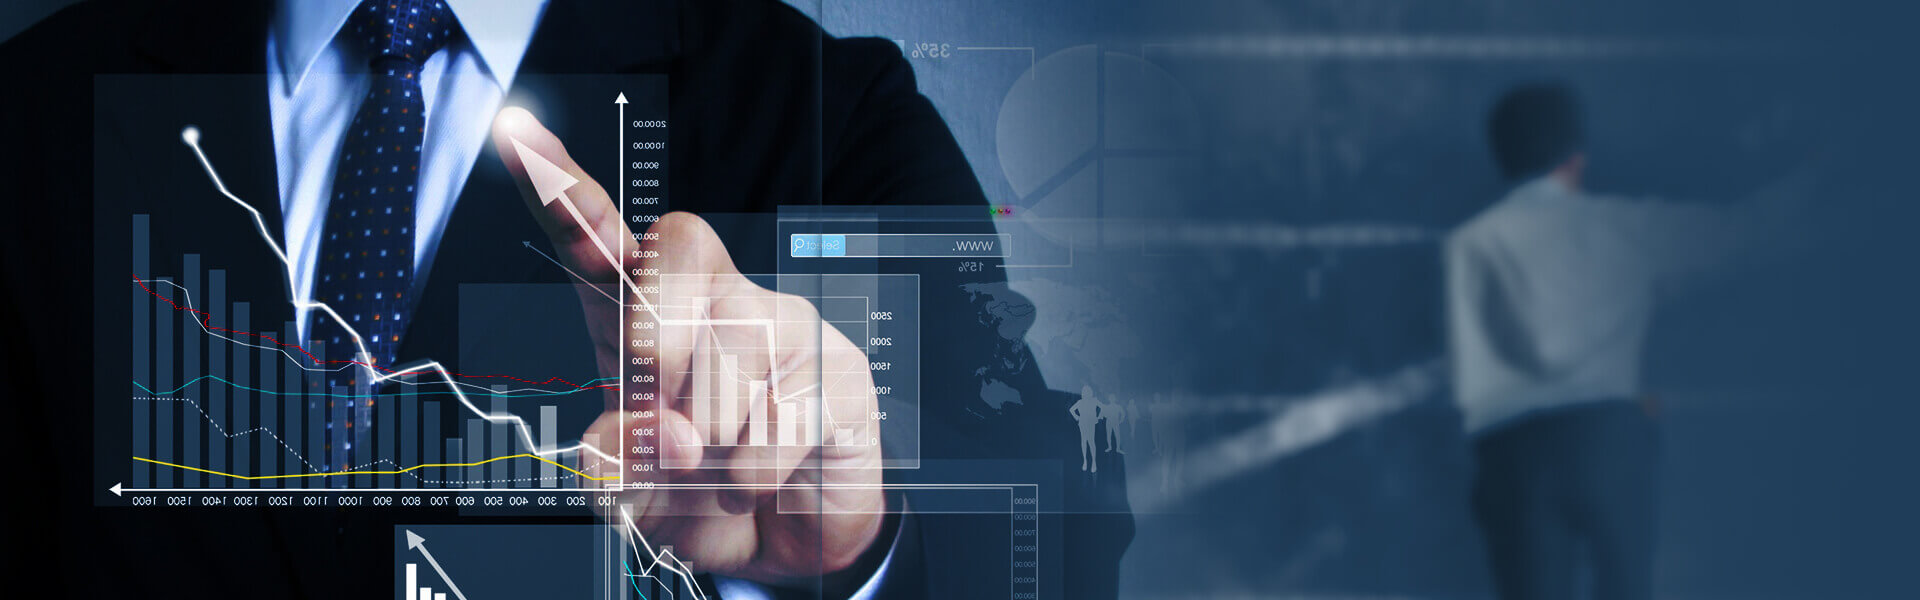
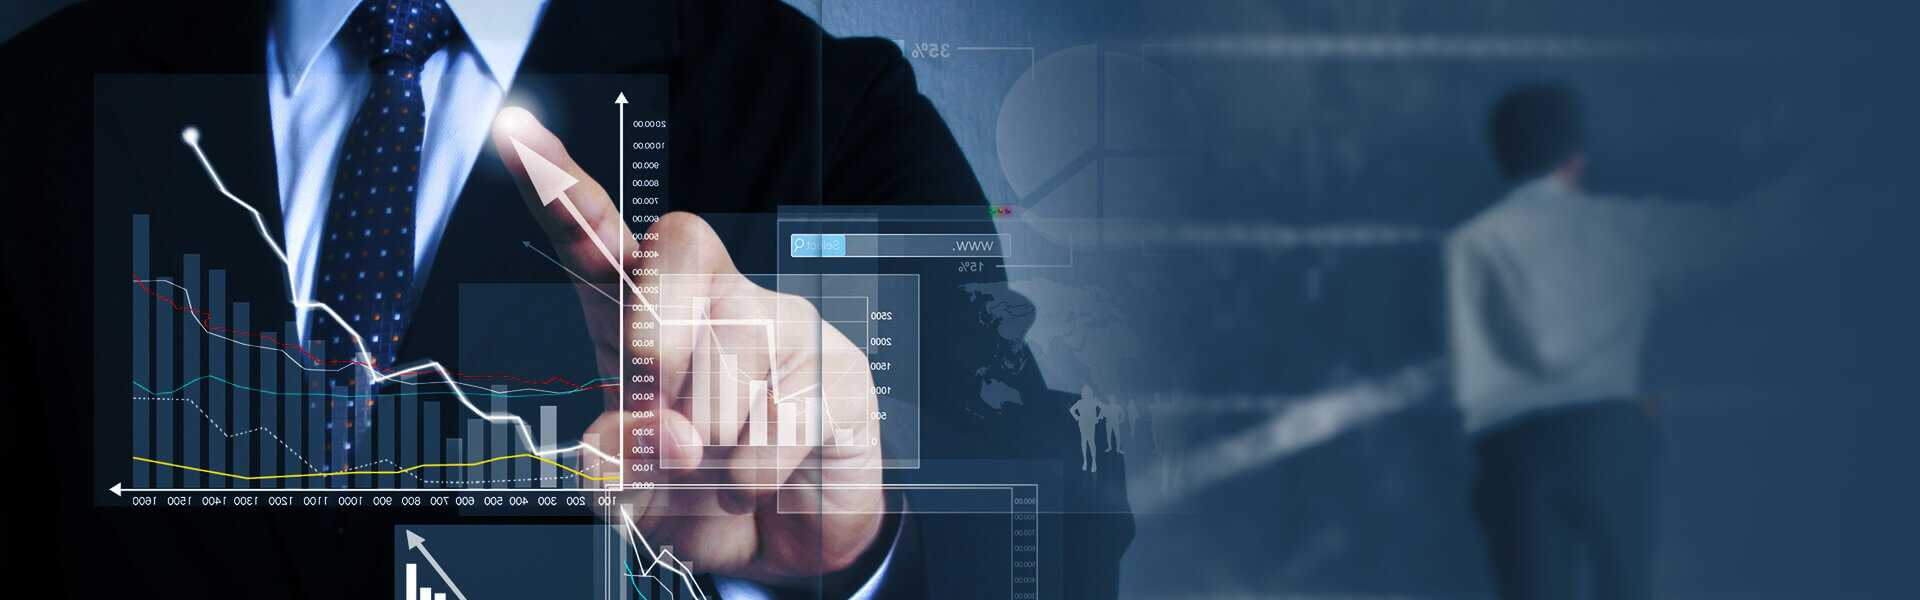
corrections / optimisations / compressions

diff --git a/styles.css b/styles.css
@@ -1,6 +1,6 @@
 /*/ GENERAL /*/
 h2{font-size: 1.6em;letter-spacing: 4px;text-transform: uppercase}
-h1 {margin-top: 15%;text-transform: uppercase;font-weight: 300;letter-spacing: 5px;width:90%}
+h1 {margin: 20% auto 0 auto;text-transform: uppercase;font-weight: 300;letter-spacing: 5px;width:90%}
 button{display: block;margin: 15px auto;background-color: white;border: 1px solid #84B1D8;padding: 5px;color: #1F3D58;}
 header button {border:0px; color:white; background-color:#4f9ee5; position:absolute;  right: 2%;top: 45%;width:auto;}
 button:hover {background-color: #1F3D58;color: white;border:1px solid white;-webkit-transition: background-color .2s ease;
@@ -63,7 +63,7 @@ background-position: 100% 100%;  width: 100%;
 
 /*/ CONTENT /*/
 #bandeau,#bandeau4 {width:100%;height:100%; overflow: hidden;padding-top:4.5%;}
-#bandeau4 {background-image: url(img/contact.png);background-repeat: no-repeat;background-size: cover;background-attachment: fixed;padding-top: 75px;}
+#bandeau4 {background-image: url(img/contact.jpg);background-repeat: no-repeat;background-size: cover;background-attachment: fixed;padding-top: 75px;}
 .frise {width:98%;height:33.4%;filter: brightness(50%);-webkit-filter: brightness(50%); -moz-filter: brightness(50%); -o-filter: brightness(50%); -ms-filter: brightness(50%); -webkit-transition: all 0.3s ease-in-out; -moz-transition: all 0.3s ease-in-out; -o-transition: all 0.3s ease-in-out; -ms-transition: all 0.3s ease-in-out; transition: all 0.3s ease-in-out; margin: 0 auto}
 .frise:hover {filter: brightness(100%);-webkit-filter: brightness(100%);-moz-filter: brightness(100%);-o-filter: brightness(100%);-ms-filter: brightness(100%);-webkit-transform: scale(1.005);-moz-transform: scale(1.005);-o-transform: scale(1.005);transform: scale(1.005);}
 #concept {background-image: url(img/01.jpg);  background-repeat: no-repeat; background-position: 0% 35%;background-size: cover}
@@ -99,11 +99,11 @@ body>.society {text-align:center;margin: 7% auto 3% auto;  display: block;}
 #bandeau3 p {  color: white;font-weight: 300;font-size: 90%;letter-spacing: 1px;  width: 90%;margin: 5% auto}
 #bloc_avantage>p,#bandeau3>p {color:black;font-size: 1.3em;margin: 3% auto;width:90%}
 #constat .div p,#bloc_avantage .div p {width:60%; margin: 1% auto}
-#first_constat {background-image:url(img/ue.png)}
-#second_constat {background-image:url(img/solution.png)}
+#first_constat {background-image:url(img/ue.jpg)}
+#second_constat {background-image:url(img/solution.jpg)}
 #second_constat .vertical_align {float:left;width:60%;margin-left:5%}
 #second_constat .constat img {float:none;display:inline-block}
-#third_constat {background-image:url(img/avantage.png)}
+#third_constat {background-image:url(img/avantage.jpg)}
 #second_constat, #first_constat,#third_constat {background-size: cover;background-repeat: no-repeat;}
 /*/ AVANTAGES /*/
 #bloc_avantage h2{font-weight: 300;font-size:1.3em;width:60%;text-align: center}

diff --git a/concept.html b/concept.html
@@ -15,17 +15,8 @@
 <link rel="stylesheet" href="mobile.css">
 <link rel="stylesheet" href="tablette.css">
 <link href='http://fonts.googleapis.com/css?family=Lato:100,300,400' rel='stylesheet' type='text/css'>
-<script src="https://ajax.googleapis.com/ajax/libs/jquery/1.10.2/jquery.min.js" async></script>
-<script src="http://code.jquery.com/jquery-latest.min.js" type="text/javascript" async></script>
-<script src="script.js" async></script>
-<noscript>Javascript non pris en charge</noscript>
 <title>Concept Be CLM, la conformité au coeur du processus</title>
 <link rel="icon" type="image/png" href="img/favicon.png" />
-    <IfModule mod_headers.c>
-  <FilesMatch "\.(js|css|xml|gz)$">
-    Header append Vary: Accept-Encoding
-  </FilesMatch>
-</IfModule>
 </head>
 <body id="monDiv">
 <header>
@@ -114,28 +105,9 @@
             </ul>
         <span>© 2015 | Designed by 4SH</span>
     </footer>
-<script>
-    function adpaterALaTailleDeLaFenetre(){
-  var largeur = document.documentElement.clientWidth,
-  hauteur = document.documentElement.clientHeight;
-   
-  var source = document.getElementById('monDiv'); // récupère l'id source
-  source.style.height = hauteur/1.152+'px'; // applique la hauteur de la page
-}
- 
-// Une fonction de compatibilité pour gérer les évènements
-function addEvent(element, type, listener){
-  if(element.addEventListener){
-    element.addEventListener(type, listener, false);
-  }else if(element.attachEvent){
-    element.attachEvent("on"+type, listener);
-  }
-}
- 
-// On exécute la fonction une première fois au chargement de la page
-addEvent(window, "load", adpaterALaTailleDeLaFenetre);
-// Puis à chaque fois que la fenêtre est redimensionnée
-addEvent(window, "resize", adpaterALaTailleDeLaFenetre);
-    </script>
+<script src="https://ajax.googleapis.com/ajax/libs/jquery/1.10.2/jquery.min.js"></script>
+<script src="http://code.jquery.com/jquery-latest.min.js" type="text/javascript"></script>
+<script src="script.js"></script>
+<noscript>Javascript non pris en charge</noscript>
 </body>
 </html>

diff --git a/mobile.css b/mobile.css
@@ -65,6 +65,7 @@
     #bandeau2 h1 {font-size: 1.5em; top: 14%;}
     #first_constat img:first-child,#second_constat img:last-child,#third_constat img:first-child {display:none}
     .offre_beclm {width:250px; height:250px}
+    #second_constat, #first_constat, #third_constat {background-position:30%}
     /*/ CONTENT /*/
 
     /*/ AVANTAGES /*/
